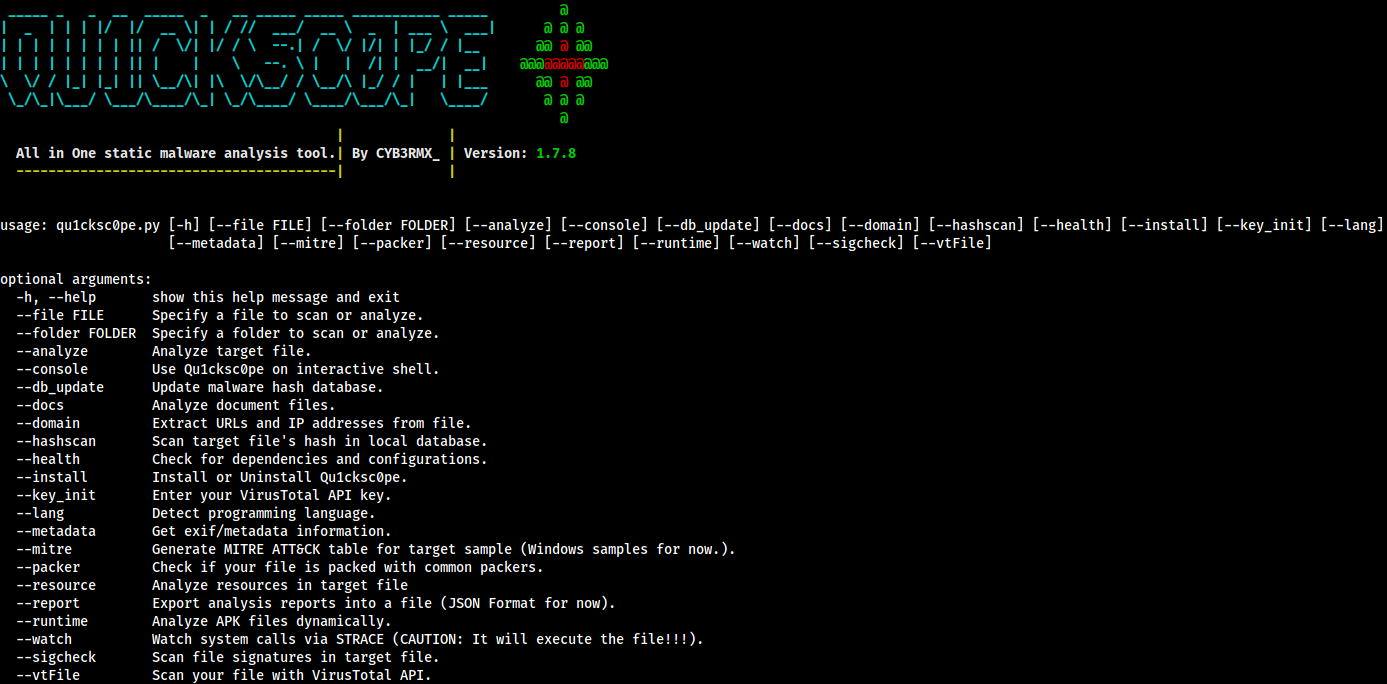
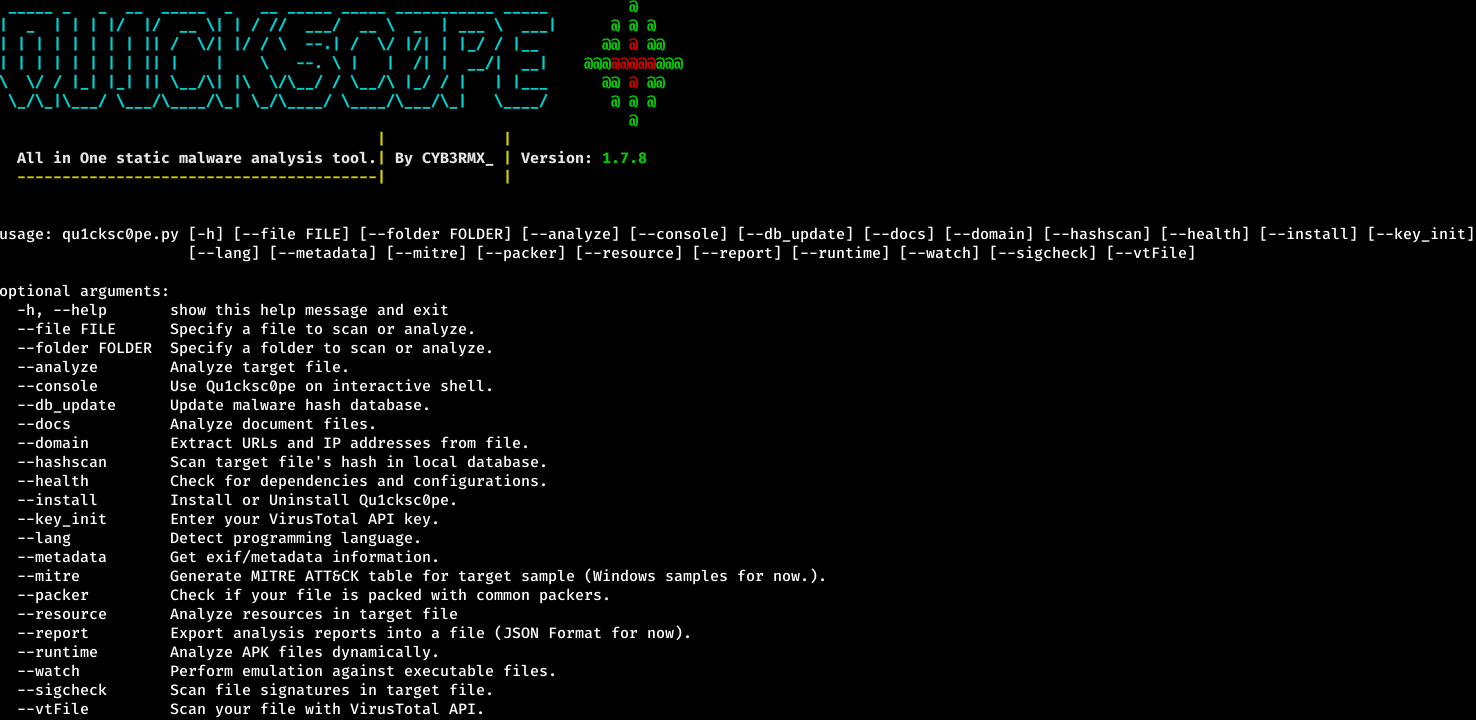
News 01/08/2022 18:21

diff --git a/Modules/emulator.py b/Modules/emulator.py
@@ -1,0 +1,165 @@
+#!/usr/bin/python3
+
+import os
+import sys
+import time
+import math
+import requests
+from subprocess import Popen, PIPE
+
+try:
+    from qiling import *
+except:
+    print("Error: >qiling< module not found.")
+    sys.exit(1)
+
+try:
+    import lief
+except:
+    print("Error: >lief< module not found.")
+    sys.exit(1)
+
+try:
+    from rich import print
+except:
+    print("Error: >rich< module not found.")
+    sys.exit(1)
+
+try:
+    import puremagic as pr
+except:
+    print("Error: >puremagic< module not found.")
+    sys.exit(1)
+
+try:
+    import pefile as pf
+except:
+    print("Error: >pefile< module not found.")
+    sys.exit(1)
+
+try:
+    from tqdm import tqdm
+except:
+    print("Module: >tqdm< not found.")
+    sys.exit(1)
+
+# Legends
+errorS = f"[bold cyan][[bold red]![bold cyan]][white]"
+infoS = f"[bold cyan][[bold red]*[bold cyan]][white]"
+
+# Target file
+targetFile = str(sys.argv[1])
+
+# Gathering Qu1cksc0pe path variable
+sc0pe_path = open(".path_handler", "r").read()
+
+def Downloader(target_os, target_arch):
+    local_database = f"{sc0pe_path}/Systems/{target_os}/{target_arch}_{target_os.lower()}.tar.gz"
+    dbUrl = f"https://media.githubusercontent.com/media/CYB3RMX/Emu-RootFS/main/{target_os}/{target_arch}_{target_os.lower()}.tar.gz"
+    req = requests.get(dbUrl, stream=True)
+    total_size = int(req.headers.get('content-length', 0))
+    block_size = 1024
+    wrote = 0
+    print(f"\n{infoS} Downloading emulator environment please wait...")
+    try:
+        with open(local_database, 'wb') as ff:
+            for data in tqdm(req.iter_content(block_size), total=math.ceil(total_size//block_size), unit='KB', unit_scale=True):
+                wrote = wrote + len(data)
+                ff.write(data)
+    except:
+        sys.exit(0)
+
+def Archiver(archive_file, target_os):
+    print(f"{infoS} Extracting rootfs archive...")
+    os.chdir(f"{sc0pe_path}/Systems/{target_os}/")
+    cmd = ["tar", "-xzf", f"{sc0pe_path}/Systems/{target_os}/{archive_file}"]
+    cmdl = Popen(cmd, stdout=PIPE, stderr=PIPE)
+    cmdl.wait()
+    os.remove(f"{sc0pe_path}/Systems/{target_os}/{archive_file}")
+    print(f"{infoS} Rootfs archive extracted.")
+
+def DetectOS():
+    print(f"{infoS} Performing OS detection...")
+    ftype = str(pr.magic_file(targetFile))
+    if "Windows Executable" in ftype or ".msi" in ftype or ".dll" in ftype or ".exe" in ftype:
+        return "Windows"
+    elif "ELF" in ftype:
+        return "Linux"
+    elif "Mach-O" in ftype:
+        return "MacOS"
+    else:
+        return "Unsupported OS"
+
+def InitQil(target_file, target_os, target_arch):
+    print(f"{infoS} Emulating {target_arch} {target_os}...")
+    print(f"\n{infoS} Preparing emulator...")
+    ql = Qiling([target_file], f"{sc0pe_path}/Systems/{target_os}/{target_arch}_{target_os.lower()}/")
+    print(f"\n{infoS} Executing emulator...")
+    time.sleep(2)
+    ql.run()
+
+def Emulator():
+    print(f"{infoS} Performing emulation of: [bold green]{targetFile}")
+    target_os = DetectOS()
+    print(f"{infoS} Target OS: [bold green]{target_os}")
+
+    # ------Windows emulation side-------
+    if target_os == "Windows":
+        print(f"{infoS} Determining architecture of [bold green]{targetFile}")
+        pe = pf.PE(targetFile)
+
+        # Perform x86 emulation
+        if hex(pe.FILE_HEADER.Machine) == "0x14c":
+            try:
+                print(f"{infoS} Detected [bold green]x86[white] architecture...")
+                if os.path.exists(f"{sc0pe_path}/Systems/Windows/x86_windows/"):
+                    InitQil(targetFile, "Windows", "x86")
+                else:
+                    print(f"\n{errorS} x86 Windows rootfs not found.")
+                    print(f"{infoS} Downloading x86 Windows rootfs...")
+                    Downloader("Windows", "x86")
+                    Archiver("x86_windows.tar.gz", "Windows")
+            except:
+                print(f"{errorS} An error occurred while performing x86 emulation.")
+                sys.exit(1)
+
+        # Perform x64 emulation
+        elif hex(pe.FILE_HEADER.Machine) == "0x8664":
+            try:
+                print(f"{infoS} Detected [bold green]x64[white] architecture...")
+                if os.path.exists(f"{sc0pe_path}/Systems/Windows/x8664_windows/"):
+                    InitQil(targetFile, "Windows", "x8664")
+                else:
+                    print(f"{errorS} x64 Windows rootfs not found.")
+                    print(f"{infoS} Downloading x64 Windows rootfs...")
+                    Downloader("Windows", "x8664")
+                    Archiver("x8664_windows.tar.gz", "Windows")
+            except:
+                print(f"{errorS} An error occurred while performing x64 emulation.")
+                sys.exit(1)
+        else:
+            print(f"{errorS} Unsupported architecture.")
+            sys.exit(1)
+    # ------Linux emulation side-------
+    elif target_os == "Linux":
+        print(f"{infoS} Determining architecture of [bold green]{targetFile}")
+        ll = lief.parse(targetFile)
+        if ll.header.machine_type.name == "x86_64":
+            try:
+                print(f"{infoS} Detected [bold green]x86_64[white] architecture...")
+                if os.path.exists(f"{sc0pe_path}/Systems/Linux/x8664_linux/"):
+                    InitQil(targetFile, "Linux", "x8664")
+                else:
+                    print(f"\n{errorS} x86_64 Linux rootfs not found.")
+                    print(f"{infoS} Downloading x86_64 Linux rootfs...")
+                    Downloader("Linux", "x8664")
+                    Archiver("x8664_linux.tar.gz", "Linux")
+            except:
+                print(f"{errorS} An error occurred while performing x86_64 emulation.")
+                sys.exit(1)
+    else:
+        print(f"{errorS} Unsupported OS.")
+        sys.exit(1)
+
+# Execute
+Emulator()

diff --git a/qu1cksc0pe.py b/qu1cksc0pe.py
@@ -135,7 +135,7 @@ parser.add_argument("--report", required=False,
 parser.add_argument("--runtime", required=False,
                     help="Analyze APK files dynamically.", action="store_true")
 parser.add_argument("--watch", required=False,
-                    help="Watch system calls via STRACE (CAUTION: It will execute the file!!!).", action="store_true")
+                    help="Perform emulation against executable files.", action="store_true")
 parser.add_argument("--sigcheck", required=False,
                     help="Scan file signatures in target file.", action="store_true")
 parser.add_argument("--vtFile", required=False,
@@ -359,7 +359,7 @@ def Qu1cksc0pe():
     if args.watch:
         # Handling --file argument
         if args.file is not None:
-            command = f"python3 {sc0pe_path}/Modules/strace.py {args.file}"
+            command = f"python3 {sc0pe_path}/Modules/emulator.py {args.file}"
             os.system(command)
         # Handling --folder argument
         if args.folder is not None:

diff --git a/README.md b/README.md
@@ -22,10 +22,9 @@ python3 qu1cksc0pe.py --file suspicious_file --analyze
 ![Screen](.animations/Screenshot.png)
 
 # Updates
-<b>28/07/2022</b>
-- [X] PE file emulation coming soon.
-- [X] Now Qu1cksc0pe can analyze ELF binary syscalls via STRACE.<br>
-![update_png](.animations/swatch.gif)
+<b>01/07/2022</b>
+- [X] Now Qu1cksc0pe can analyze both Linux and Windows executables via emulation.<br>
+![update_png](.animations/emulate.gif)
 
 # Available On
 ![blackarch_banner](.animations/blackarch.png)
@@ -52,12 +51,12 @@ python3 qu1cksc0pe.py --file suspicious_file --analyze
 - ```lief``` => <i>ELF binary parsing and analysis.</i>
 - ```zepu1chr3``` => <i>Analyzing binaries via radare2.</i>
 - ```pygore``` => <i>Analyzing golang binaries```</i>
+- ```qiling``` => <i>Dynamic analysis of binaries.</i>
 
 <br><b>Installation of python modules</b>: ```pip3 install -r requirements.txt```<br>
 <b>Gathering other dependencies</b>:
 - <i>VirusTotal API Key</i>: ```https://virustotal.com```
 - <i>Strings</i>: ```sudo apt-get install strings```
-- <i>Strace</i>: ```sudo apt-get install strace```
 - <i>PyExifTool</i>: ```git clone git://github.com/smarnach/pyexiftool.git``` then ```cd pyexiftool && sudo python3 setup.py install```
 
 **Alert**
@@ -136,9 +135,12 @@ decompiler = JADX_BINARY_PATH <-- You must specify this.
 <br><b>Usage</b>: ```python3 qu1cksc0pe.py --runtime```<br>
 ![animation](.animations/dynamic.gif)
 
-## Watch syscalls via STRACE (Recommended: ELF binaries)
-<b>Usage</b>: ```python3 qu1cksc0pe.py --file suspicious_file --watch```<br>
-![animation](.animations/swatch.gif)
+## Binary Emulation
+**Alert**
+> **Binary emulator is not recommended for .NET analysis.**
+
+<br><b>Usage</b>: ```python3 qu1cksc0pe.py --file suspicious_file --watch```<br>
+![animation](.animations/emulate.gif)
 
 # Informations about categories
 ## Registry
